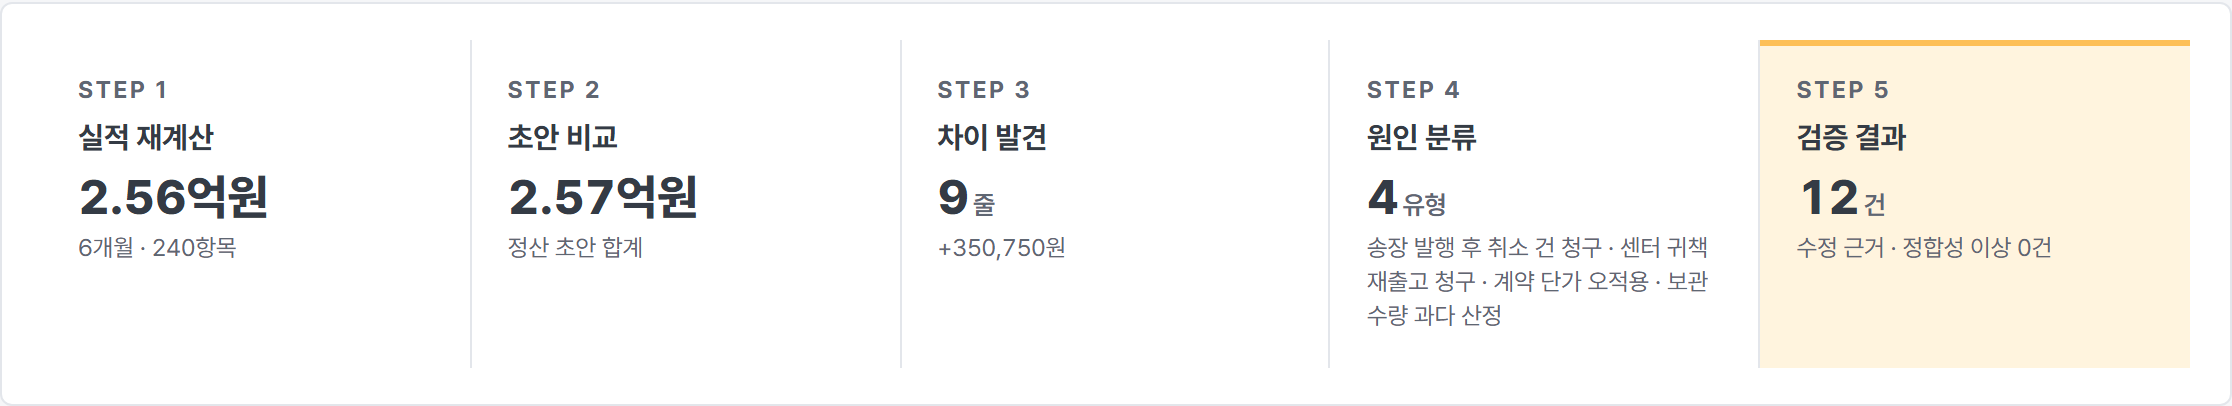
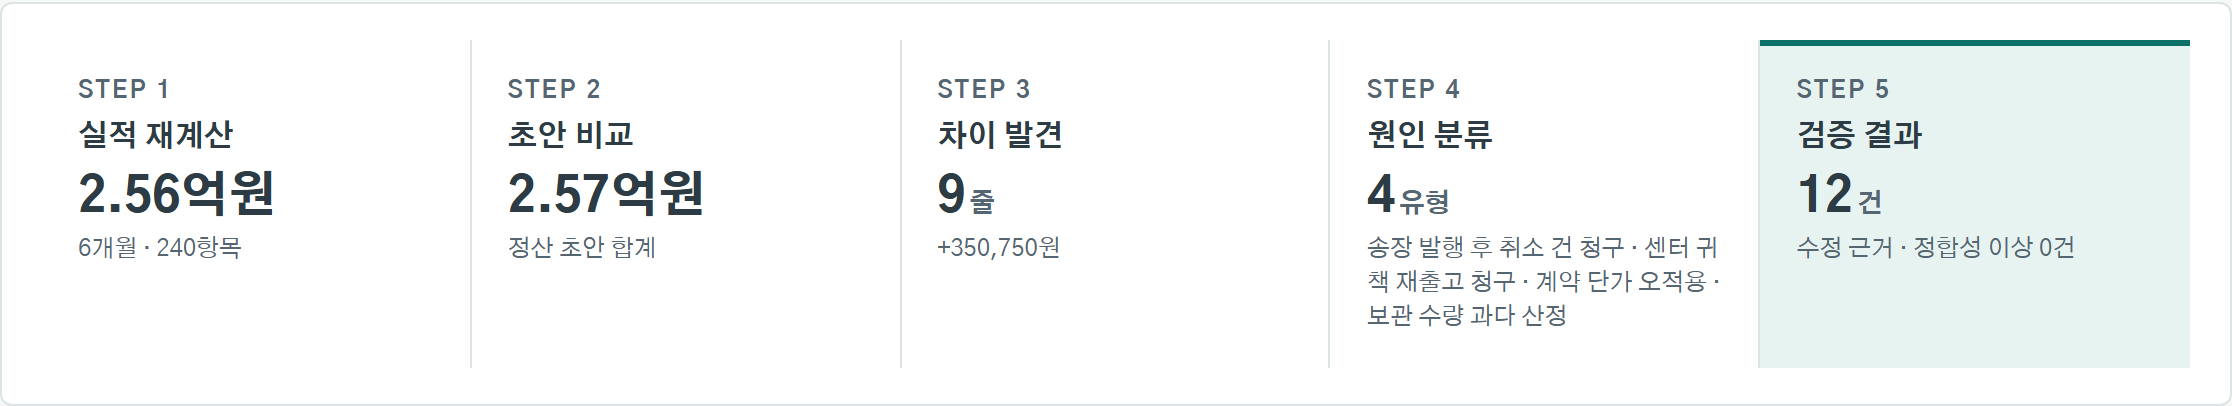
Apply slate and deep teal and Gothic A1 to the 13-page PDF
Light-teal text on the dark pages keeps contrast; dashboard captures
are retaken from the recolored demo. Content is unchanged.

diff --git a/docs/portfolio-pdf/deck.html b/docs/portfolio-pdf/deck.html
@@ -3,24 +3,26 @@
 <head>
 <meta charset="utf-8">
 <title>소준희 포트폴리오</title>
-<link rel="preconnect" href="https://fonts.googleapis.com">
-<link rel="stylesheet" href="https://fonts.googleapis.com/css2?family=Noto+Sans+KR:wght@400;500;700;800&display=swap">
+<link rel="stylesheet" href="https://cdn.jsdelivr.net/npm/@fontsource/gothic-a1@5.2.8/400.css">
+<link rel="stylesheet" href="https://cdn.jsdelivr.net/npm/@fontsource/gothic-a1@5.2.8/500.css">
+<link rel="stylesheet" href="https://cdn.jsdelivr.net/npm/@fontsource/gothic-a1@5.2.8/700.css">
+<link rel="stylesheet" href="https://cdn.jsdelivr.net/npm/@fontsource/gothic-a1@5.2.8/800.css">
 <style>
   /* 13페이지 PDF 원본 — python docs/portfolio-pdf/build_pdf.py 로 출력 (1280×720px = 960×540pt)
-     색상: 기존 네이비·화이트 유지, 강조색을 민트 → 골드로 변경. 골드 글자는 네이비 배경에서만, 밝은 배경에서는 --ink 사용 */
+     색상: 사이트와 같은 슬레이트 + 딥틸. --gold는 이름만 남은 주 강조색(딥틸), 어두운 배경 위 글자는 --on-dark, 밝은 배경 위 강조 글자는 --ink */
   @page { size: 1280px 720px; margin: 0; }
   :root {
-    --navy: #13293D; --navy-2: #1B3550; --line-dark: #2A4560;
-    --gold: #FDBF57; --gold-soft: #F4B955; --gold-deep: #D4A14C; --ink: #7A5A12; --wash: #FFF4DE;
-    --bg: #F5F6F8; --card: #FFFFFF; --line: #E2E5EA; --text: #343B45; --head: #13293D; --mute: #66707C;
+    --navy: #193342; --navy-2: #22414F; --line-dark: #2A4757;
+    --gold: #0B7067; --gold-soft: #095F57; --gold-deep: #0B655B; --ink: #0B655B; --wash: #E6F3F0; --on-dark: #7FD1C3;
+    --bg: #F6F8F8; --card: #FFFFFF; --line: #DCE4E5; --text: #2D3C44; --head: #193342; --mute: #536671;
   }
   * { box-sizing: border-box; margin: 0; padding: 0; }
-  html, body { background: #fff; font-family: 'Noto Sans KR', 'Malgun Gothic', sans-serif; color: var(--text); word-break: keep-all; -webkit-print-color-adjust: exact; print-color-adjust: exact; }
+  html, body { background: #fff; font-family: 'Gothic A1', 'Malgun Gothic', sans-serif; color: var(--text); word-break: keep-all; -webkit-print-color-adjust: exact; print-color-adjust: exact; }
   .page { width: 1280px; height: 720px; position: relative; overflow: hidden; background: var(--bg); padding: 46px 56px 0; page-break-after: always; break-after: page; }
   .page:last-child { page-break-after: auto; break-after: auto; }
   .page.dark { background: var(--navy); color: #E6EBF0; }
   .eyebrow { font-size: 13px; font-weight: 700; letter-spacing: .18em; color: var(--ink); }
-  .dark .eyebrow { color: var(--gold); }
+  .dark .eyebrow { color: var(--on-dark); }
   h1.t { font-size: 31px; font-weight: 800; color: var(--head); letter-spacing: -.02em; margin-top: 6px; line-height: 1.3; }
   .sub { margin-top: 8px; font-size: 14px; color: var(--mute); }
   .foot { position: absolute; left: 56px; right: 56px; bottom: 22px; display: flex; justify-content: space-between; font-size: 12px; color: var(--mute); }
@@ -47,7 +49,7 @@
   .cover .ring { position: absolute; border: 1px solid #22405E; border-radius: 50%; }
   .cover .main { position: absolute; left: 56px; top: 180px; width: 860px; }
   .cover h1 { margin-top: 18px; font-size: 56px; line-height: 1.28; font-weight: 800; color: #fff; letter-spacing: -.025em; }
-  .cover h1 em { font-style: normal; color: var(--gold); }
+  .cover h1 em { font-style: normal; color: var(--on-dark); }
   .cover p.lead { margin-top: 26px; font-size: 17px; line-height: 1.75; color: #C8D3DE; width: 720px; }
   .cover .bottom { position: absolute; left: 56px; right: 56px; bottom: 40px; border-top: 1px solid var(--line-dark); padding-top: 20px; display: flex; justify-content: space-between; font-size: 14px; color: #C8D3DE; }
   .cover .bottom span { margin-right: 26px; }
@@ -74,7 +76,7 @@
   .edu b { color: var(--ink); margin-right: 18px; }
   .comp { display: grid; grid-template-columns: 1fr 1fr; gap: 12px; }
   .comp .card { padding: 16px 18px 14px; }
-  .comp .lt { display: inline-flex; width: 24px; height: 24px; border-radius: 6px; background: var(--gold); color: #1C1C1C; font-size: 12px; font-weight: 800; align-items: center; justify-content: center; margin-right: 8px; vertical-align: 1px; }
+  .comp .lt { display: inline-flex; width: 24px; height: 24px; border-radius: 6px; background: var(--gold); color: #FFFFFF; font-size: 12px; font-weight: 800; align-items: center; justify-content: center; margin-right: 8px; vertical-align: 1px; }
   .comp h3 { display: inline; font-size: 16px; color: var(--head); }
   .comp .en { display: block; margin-top: 6px; font-size: 10.5px; font-weight: 700; letter-spacing: .12em; color: var(--ink); }
   .comp ul { margin-top: 6px; }
@@ -114,7 +116,7 @@
   .ach { display: grid; gap: 8px; margin-top: 6px; }
   .ach.c3 { grid-template-columns: repeat(3, 1fr); }
   .ach.c4 { grid-template-columns: repeat(4, 1fr); }
-  .ach div { background: var(--wash); border: 1px solid #F1D9A6; border-radius: 8px; padding: 10px 11px; min-height: 76px; }
+  .ach div { background: var(--wash); border: 1px solid #BFE0D8; border-radius: 8px; padding: 10px 11px; min-height: 76px; }
   .ach b { display: block; font-size: 19px; color: var(--head); letter-spacing: -.01em; }
   .ach span { display: block; font-size: 11.5px; color: var(--text); margin-top: 2px; line-height: 1.45; }
   .co ul.dots { margin-top: 6px; }
@@ -136,7 +138,7 @@
   .p7 .prob li { font-size: 12.8px; }
   .steps { display: grid; gap: 12px; }
   .step { display: grid; grid-template-columns: 30px 1fr; gap: 10px; }
-  .step .no { width: 28px; height: 28px; border-radius: 8px; background: var(--navy); color: var(--gold); font-weight: 800; font-size: 13px; display: flex; align-items: center; justify-content: center; }
+  .step .no { width: 28px; height: 28px; border-radius: 8px; background: var(--navy); color: var(--on-dark); font-weight: 800; font-size: 13px; display: flex; align-items: center; justify-content: center; }
   .step h4 { font-size: 14.5px; color: var(--head); }
   .step p { font-size: 12.3px; line-height: 1.6; color: var(--text); margin-top: 2px; }
   .vbox { padding: 14px 16px; border-radius: 10px; }
@@ -145,7 +147,7 @@
   .vbox.no { background: #EEF1F4; }
   .vbox li { font-size: 12px; }
   .disc { margin-top: 10px; padding: 10px 14px; border-radius: 8px; background: var(--navy); color: #E6EBF0; font-size: 12px; line-height: 1.6; }
-  .disc b { color: var(--gold); }
+  .disc b { color: var(--on-dark); }
   .feat { display: grid; grid-template-columns: 1fr 1fr; gap: 4px 18px; }
   .feat li { font-size: 12.3px; }
 
@@ -188,7 +190,7 @@
   .jr h4 { font-size: 15px; color: var(--head); margin-top: 3px; }
   .jr p { font-size: 12.5px; color: var(--mute); margin-top: 2px; }
   .jr .card.dk { background: var(--navy); border-color: var(--navy); }
-  .jr .card.dk small { color: var(--gold); }
+  .jr .card.dk small { color: var(--on-dark); }
   .jr .card.dk h4 { color: #fff; }
   .jr .card.dk p { color: #B7C4D1; }
 
@@ -196,10 +198,10 @@
   .contact .main { position: absolute; left: 56px; top: 150px; }
   .contact .eyebrow { letter-spacing: .1em; font-size: 15px; }
   .contact h1 { font-size: 46px; line-height: 1.35; font-weight: 800; color: #fff; margin-top: 18px; letter-spacing: -.02em; }
-  .contact h1 em { font-style: normal; color: var(--gold); }
+  .contact h1 em { font-style: normal; color: var(--on-dark); }
   .contact p { margin-top: 22px; font-size: 16px; color: #C8D3DE; }
   .contact .info { margin-top: 40px; display: flex; gap: 60px; }
-  .contact .info small { display: block; font-size: 12px; letter-spacing: .2em; font-weight: 700; color: var(--gold); }
+  .contact .info small { display: block; font-size: 12px; letter-spacing: .2em; font-weight: 700; color: var(--on-dark); }
   .contact .info a, .contact .info span { font-size: 17px; color: #fff; display: block; margin-top: 6px; }
 </style>
 </head>
@@ -448,7 +450,7 @@
       <h4 style="font-size:13px;color:var(--ink)">데이터 파이프라인 → 분석 → 화면</h4>
       <div class="pipe"><div class="s">공공데이터 수집<small>UN Comtrade · 관세청 · ECOS · KOTRA · WTO · FRED</small></div><div class="ar">→</div><div class="s">가공 · 검증<small>출처·해시 MANIFEST.csv</small></div><div class="ar">→</div><div class="s d">분석 엔진 통합<small>5개 영역</small></div><div class="ar">→</div><div class="s">대시보드 연결<small>업로드 · 탭 · 출처 표시</small></div></div>
       <h4 style="font-size:13px;color:var(--ink);margin-top:16px">시연용 종합 채점 산식 (가중치 조정 · 합계 100% 검증)</h4>
-      <div class="wbar"><div style="flex:35;background:#13293D">시장성 35</div><div style="flex:30;background:#2D4A66">가격 30</div><div style="flex:20;background:#4A6683">물류 20</div><div style="flex:15;background:#D4A14C;color:#1C1C1C">안정성 15</div></div>
+      <div class="wbar"><div style="flex:35;background:#193342">시장성 35</div><div style="flex:30;background:#2D4A66">가격 30</div><div style="flex:20;background:#4A6683">물류 20</div><div style="flex:15;background:#0B7067;color:#FFFFFF">안정성 15</div></div>
       <p class="cap">규제는 가중치 대신 감점형 관문으로 반영 · 안정성은 결제통화 환율 변동성과 과거 10년 분포를 비교</p>
       <ul class="dots" style="margin-top:12px">
         <li>Supabase 회원가입·로그인·세션 관리와 사용자별 작업 폴더 워크스페이스 백엔드 직접 구현</li>
